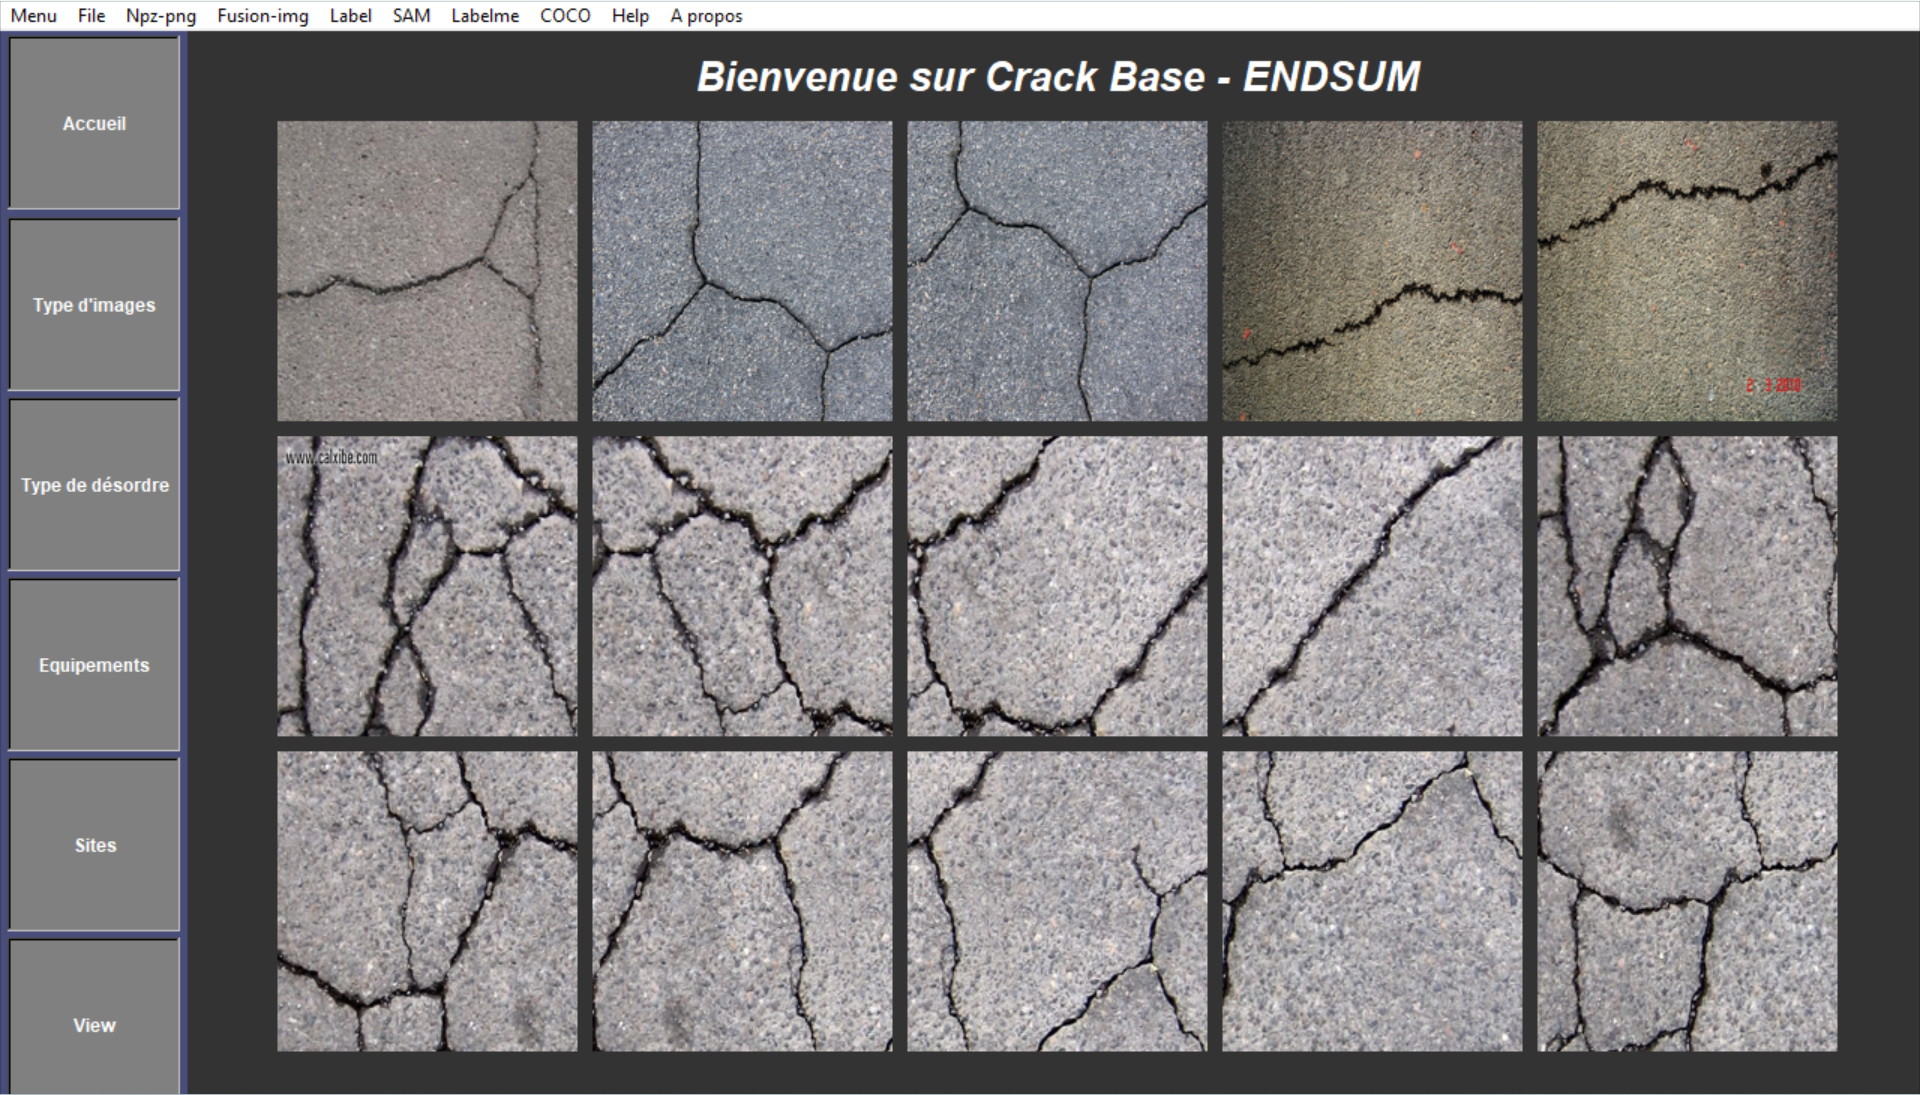
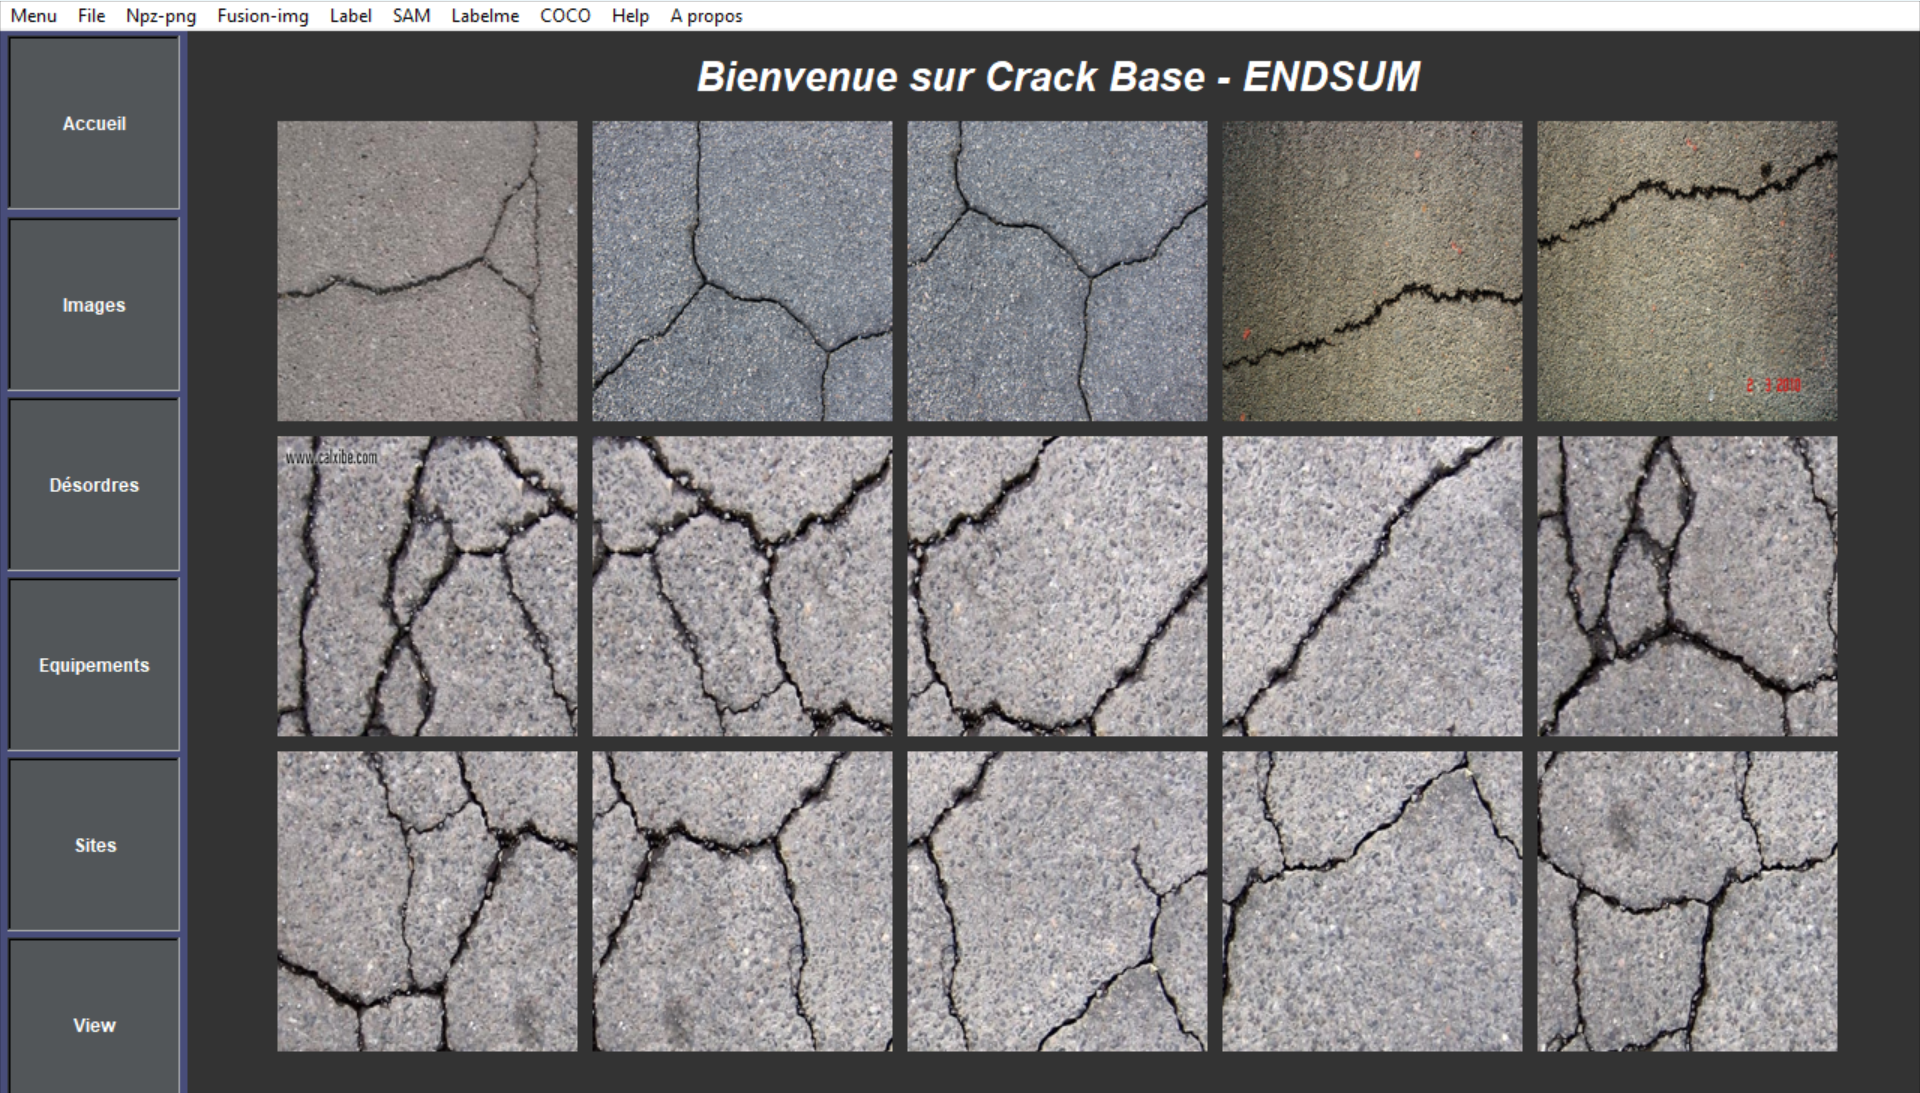
Mise à jour

diff --git a/app.py b/app.py
@@ -280,10 +280,10 @@ class CrackBase(Tk):
         self.body = body
 
         # Ajouter des bouttons à la barre latérale
-        sidebutton0 = Button(self.sidebar, text="Accueil", bg="gray", relief=SUNKEN, width=15, height=7, command=lambda: self.show_page("Accueil"), font=("Arial", 9, "bold"))
+        sidebutton0 = Button(self.sidebar, text="Accueil", bg="#525659", relief=SUNKEN, width=15, height=7, command=lambda: self.show_page("Accueil"), font=("Arial", 9, "bold"))
         sidebutton0.grid(row=0, pady=3, padx=5)
 
-        sidebutton1 = Button(self.sidebar, text="Type d\'images", bg="gray", relief=SUNKEN, width=15, height=7, command=self.toggle_side_button, font=("Arial", 9, "bold"))
+        sidebutton1 = Button(self.sidebar, text="Images", bg="#525659", relief=SUNKEN, width=15, height=7, command=self.toggle_side_button, font=("Arial", 9, "bold"))
         sidebutton1.grid(row=1, pady=2, padx=5)
 
         # Sous-boutons
@@ -299,7 +299,7 @@ class CrackBase(Tk):
         self.side_button_NB.grid(row=1, column=1, pady=(70, 0), padx=6)
         self.side_button_NB.grid_remove()  # Caché initialement
 
-        sidebutton2 = Button(self.sidebar, text="Type de désordre", bg="gray", relief=SUNKEN, width=15, height=7, command=self.toggle_side_button2, font=("Arial", 9, "bold"))
+        sidebutton2 = Button(self.sidebar, text="Désordres", bg="#525659", relief=SUNKEN, width=15, height=7, command=self.toggle_side_button2, font=("Arial", 9, "bold"))
         sidebutton2.grid(row=2, pady=2, padx=5)
 
         # Sous-boutons
@@ -315,13 +315,13 @@ class CrackBase(Tk):
         self.side_button_NB1.grid(row=2, column=1, pady=(70, 0), padx=6)
         self.side_button_NB1.grid_remove()  # Caché initialement
 
-        sidebutton4 = Button(self.sidebar, text="Equipements", bg="gray", relief=SUNKEN, width=15, height=7, command=lambda: self.show_page("equipements"), font=("Arial", 9, "bold"))
+        sidebutton4 = Button(self.sidebar, text="Equipements", bg="#525659", relief=SUNKEN, width=15, height=7, command=lambda: self.show_page("equipements"), font=("Arial", 9, "bold"))
         sidebutton4.grid(row=3, pady=2, padx=5)
 
-        sidebutton3 = Button(self.sidebar, text="Sites", bg="gray", relief=SUNKEN, width=15, height=7, command=lambda: self.show_page("sites"), font=("Arial", 9, "bold"))
+        sidebutton3 = Button(self.sidebar, text="Sites", bg="#525659", relief=SUNKEN, width=15, height=7, command=lambda: self.show_page("sites"), font=("Arial", 9, "bold"))
         sidebutton3.grid(row=4, pady=2, padx=5)
 
-        sidebutton5 = Button(self.sidebar, text="View", bg="gray", relief=SUNKEN, width=15, height=7, command=lambda: self.show_page("view"), font=("Arial", 9, "bold"))
+        sidebutton5 = Button(self.sidebar, text="View", bg="#525659", relief=SUNKEN, width=15, height=7, command=lambda: self.show_page("view"), font=("Arial", 9, "bold"))
         sidebutton5.grid(row=5, pady=2, padx=5)
 
         # Créer les différents Frames ; La classe Frames prend les arguments du parent, de la catégorie et du chemin d'accès au fichier de l'image.
